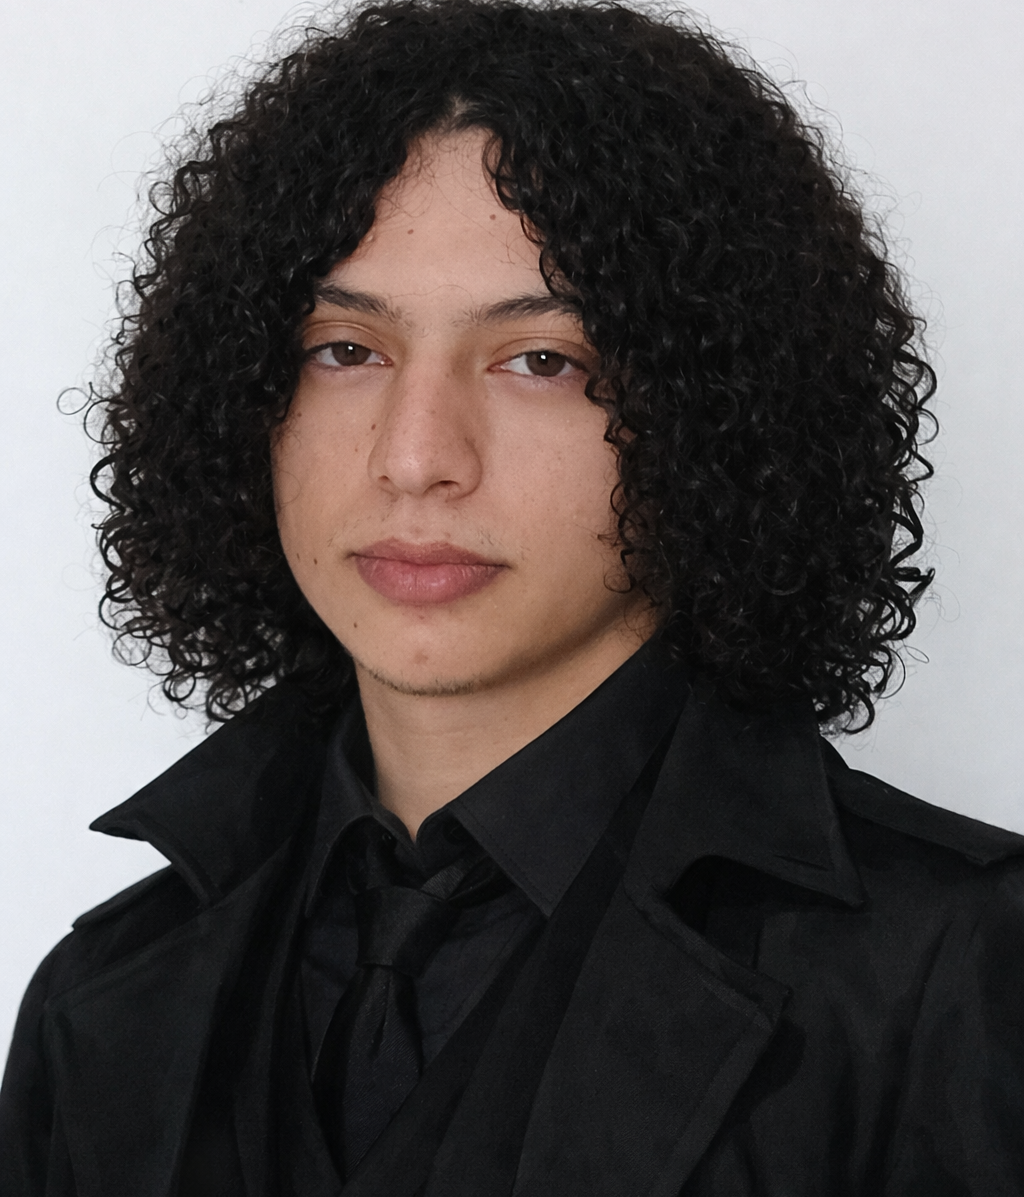
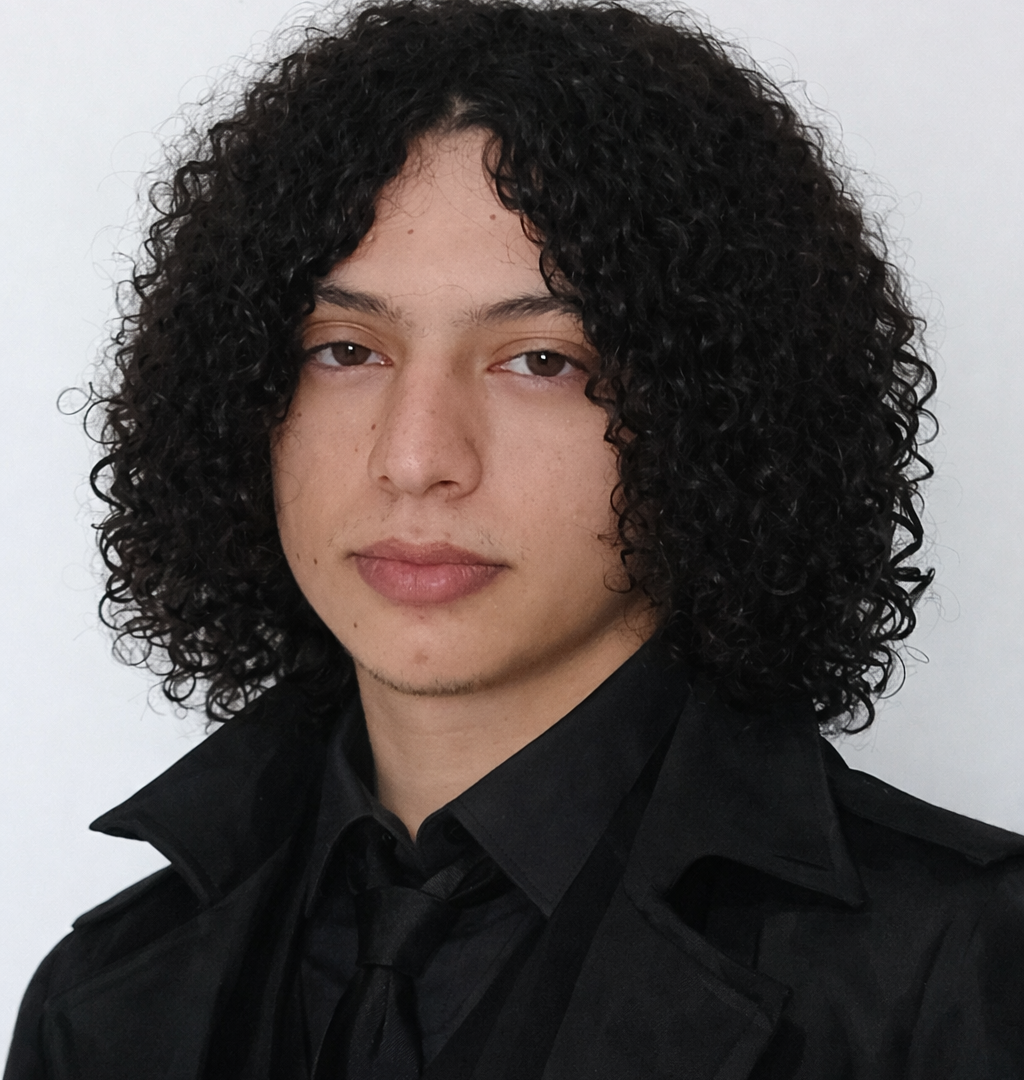
update: some more data

diff --git a/scripts/data.js b/scripts/data.js
@@ -206,7 +206,7 @@ const myData = {
                 "en": "Integrated management system for mining operations, designed to unify multidisciplinary data collection through a tailored multimodular architecture, ensuring operational transparency, rapid adaptability to internal client requirements, system scalability, and critical real-time decision support.",
                 "pt-br": "Sistema integrado de gestão para operações de mineração, projetado para unificar a coleta de dados multidisciplinares por meio de uma arquitetura multimodular sob medida, garantindo transparência operacional, adaptação rápida às demandas do cliente interno, escalabilidade do sistema e suporte crítico à tomada de decisão em tempo real."
             },
-            images: ["img/sig-team.jpg"],
+            images: ["img/sigmin.png","img/sig-team.jpg"],
             team: [
                 {
                     name: "Deyvson Santos",
